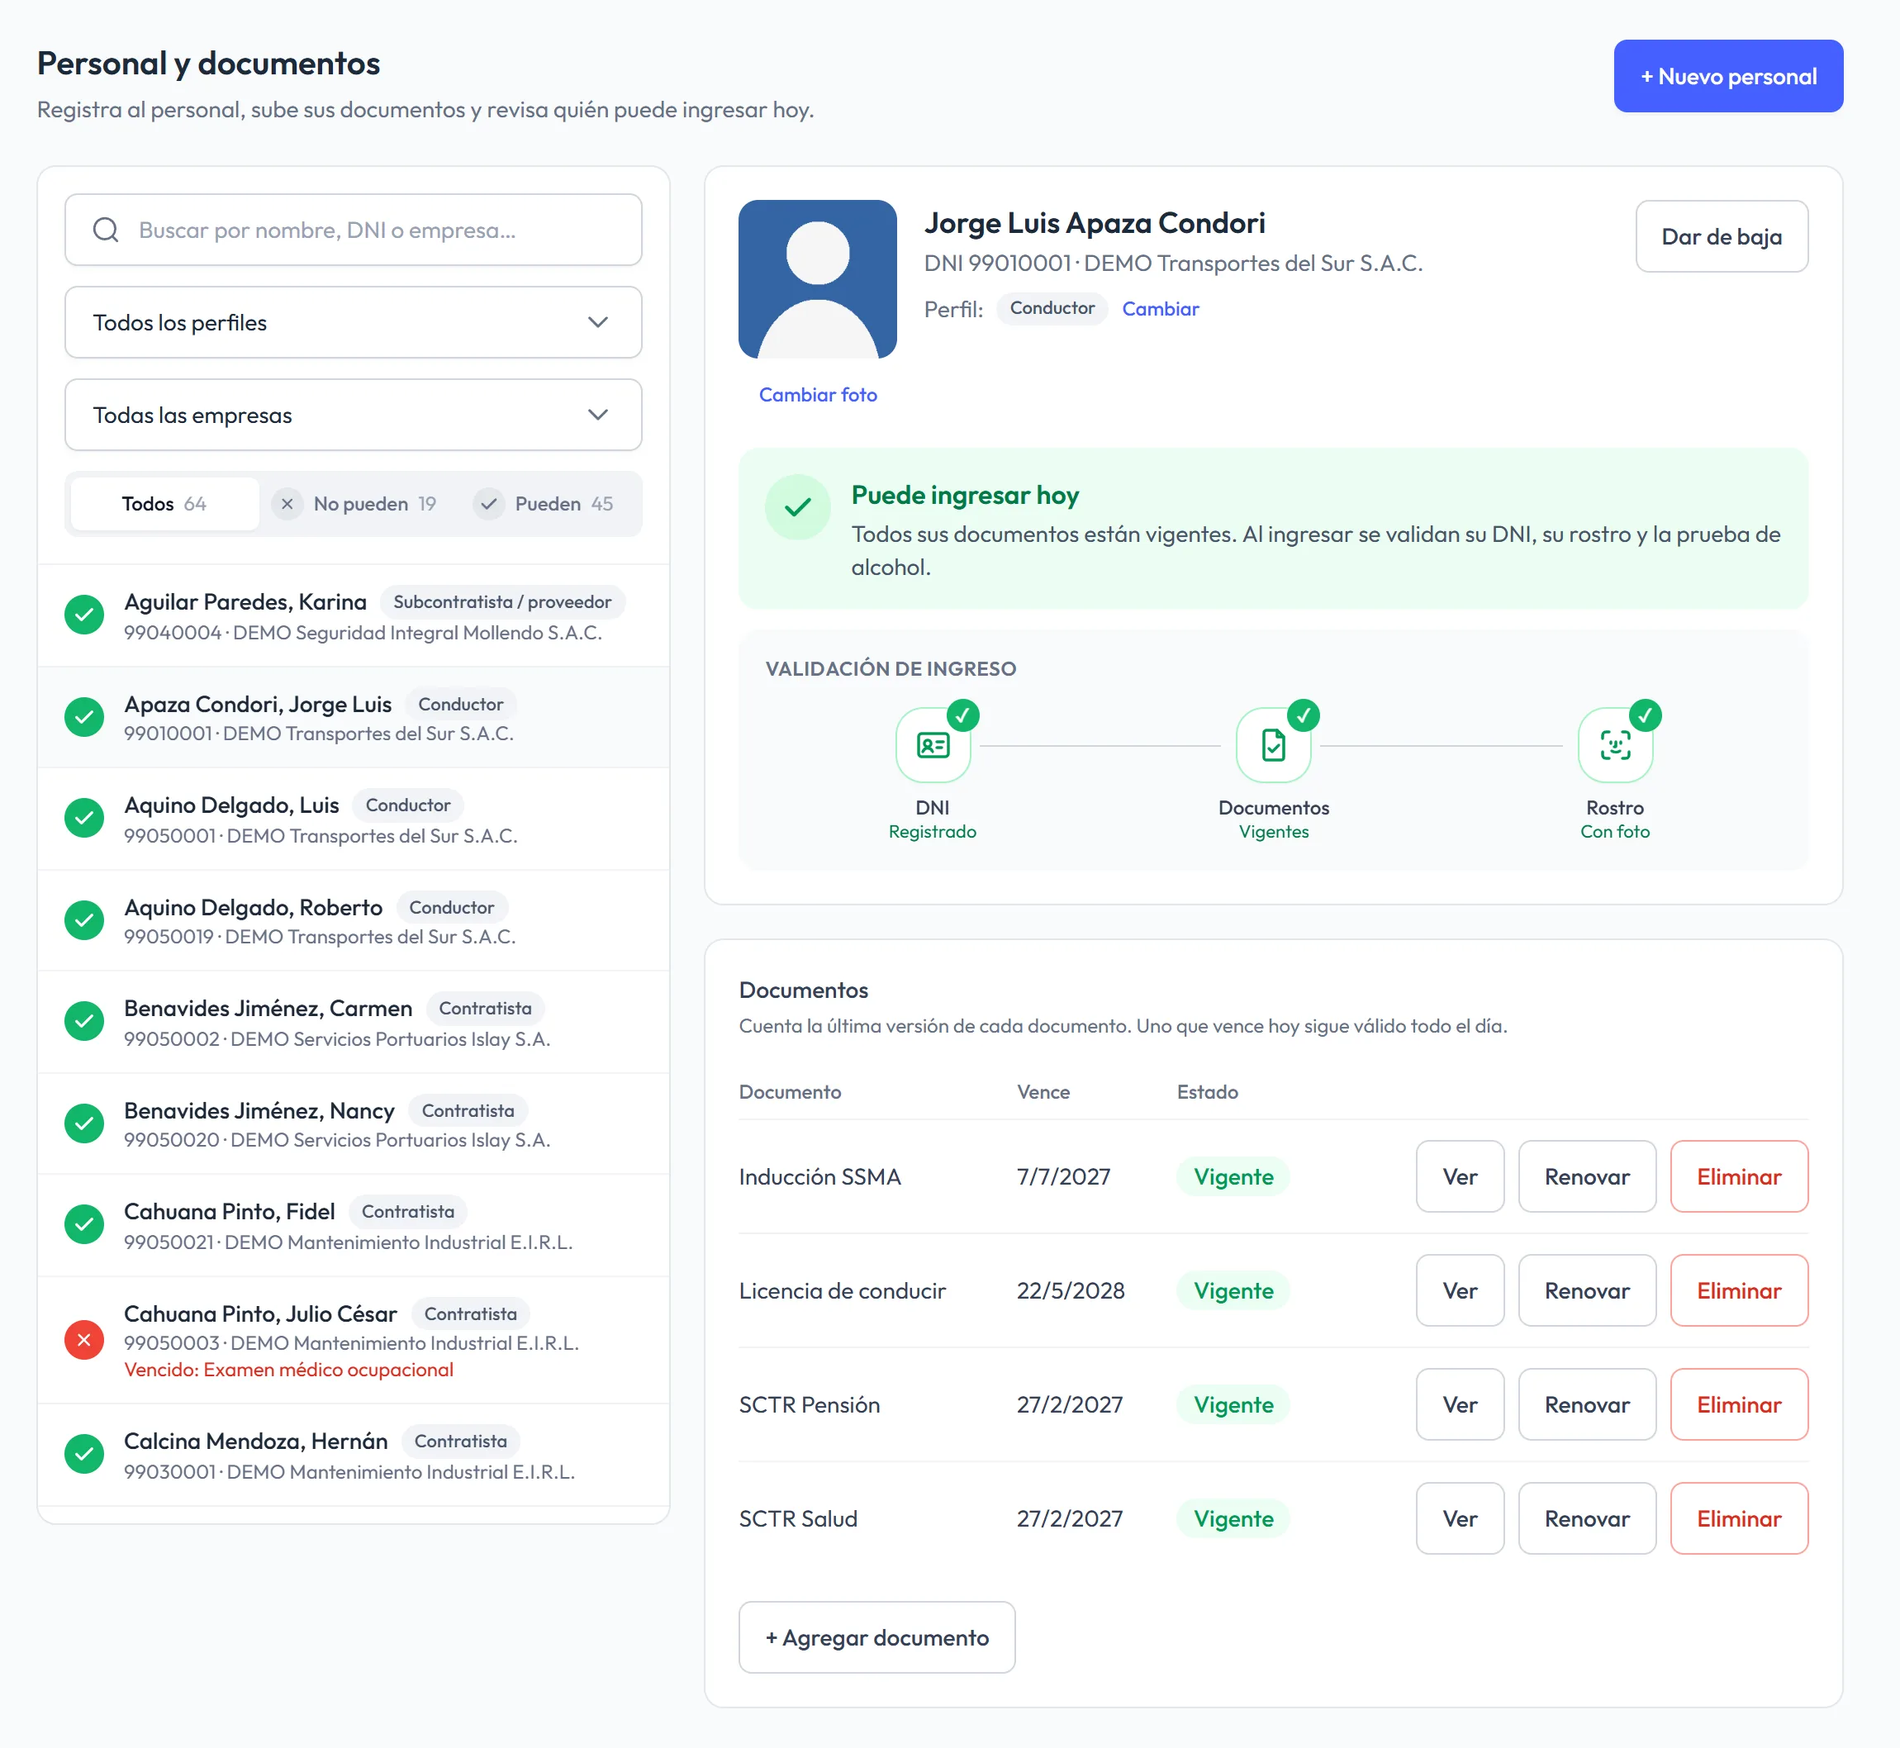
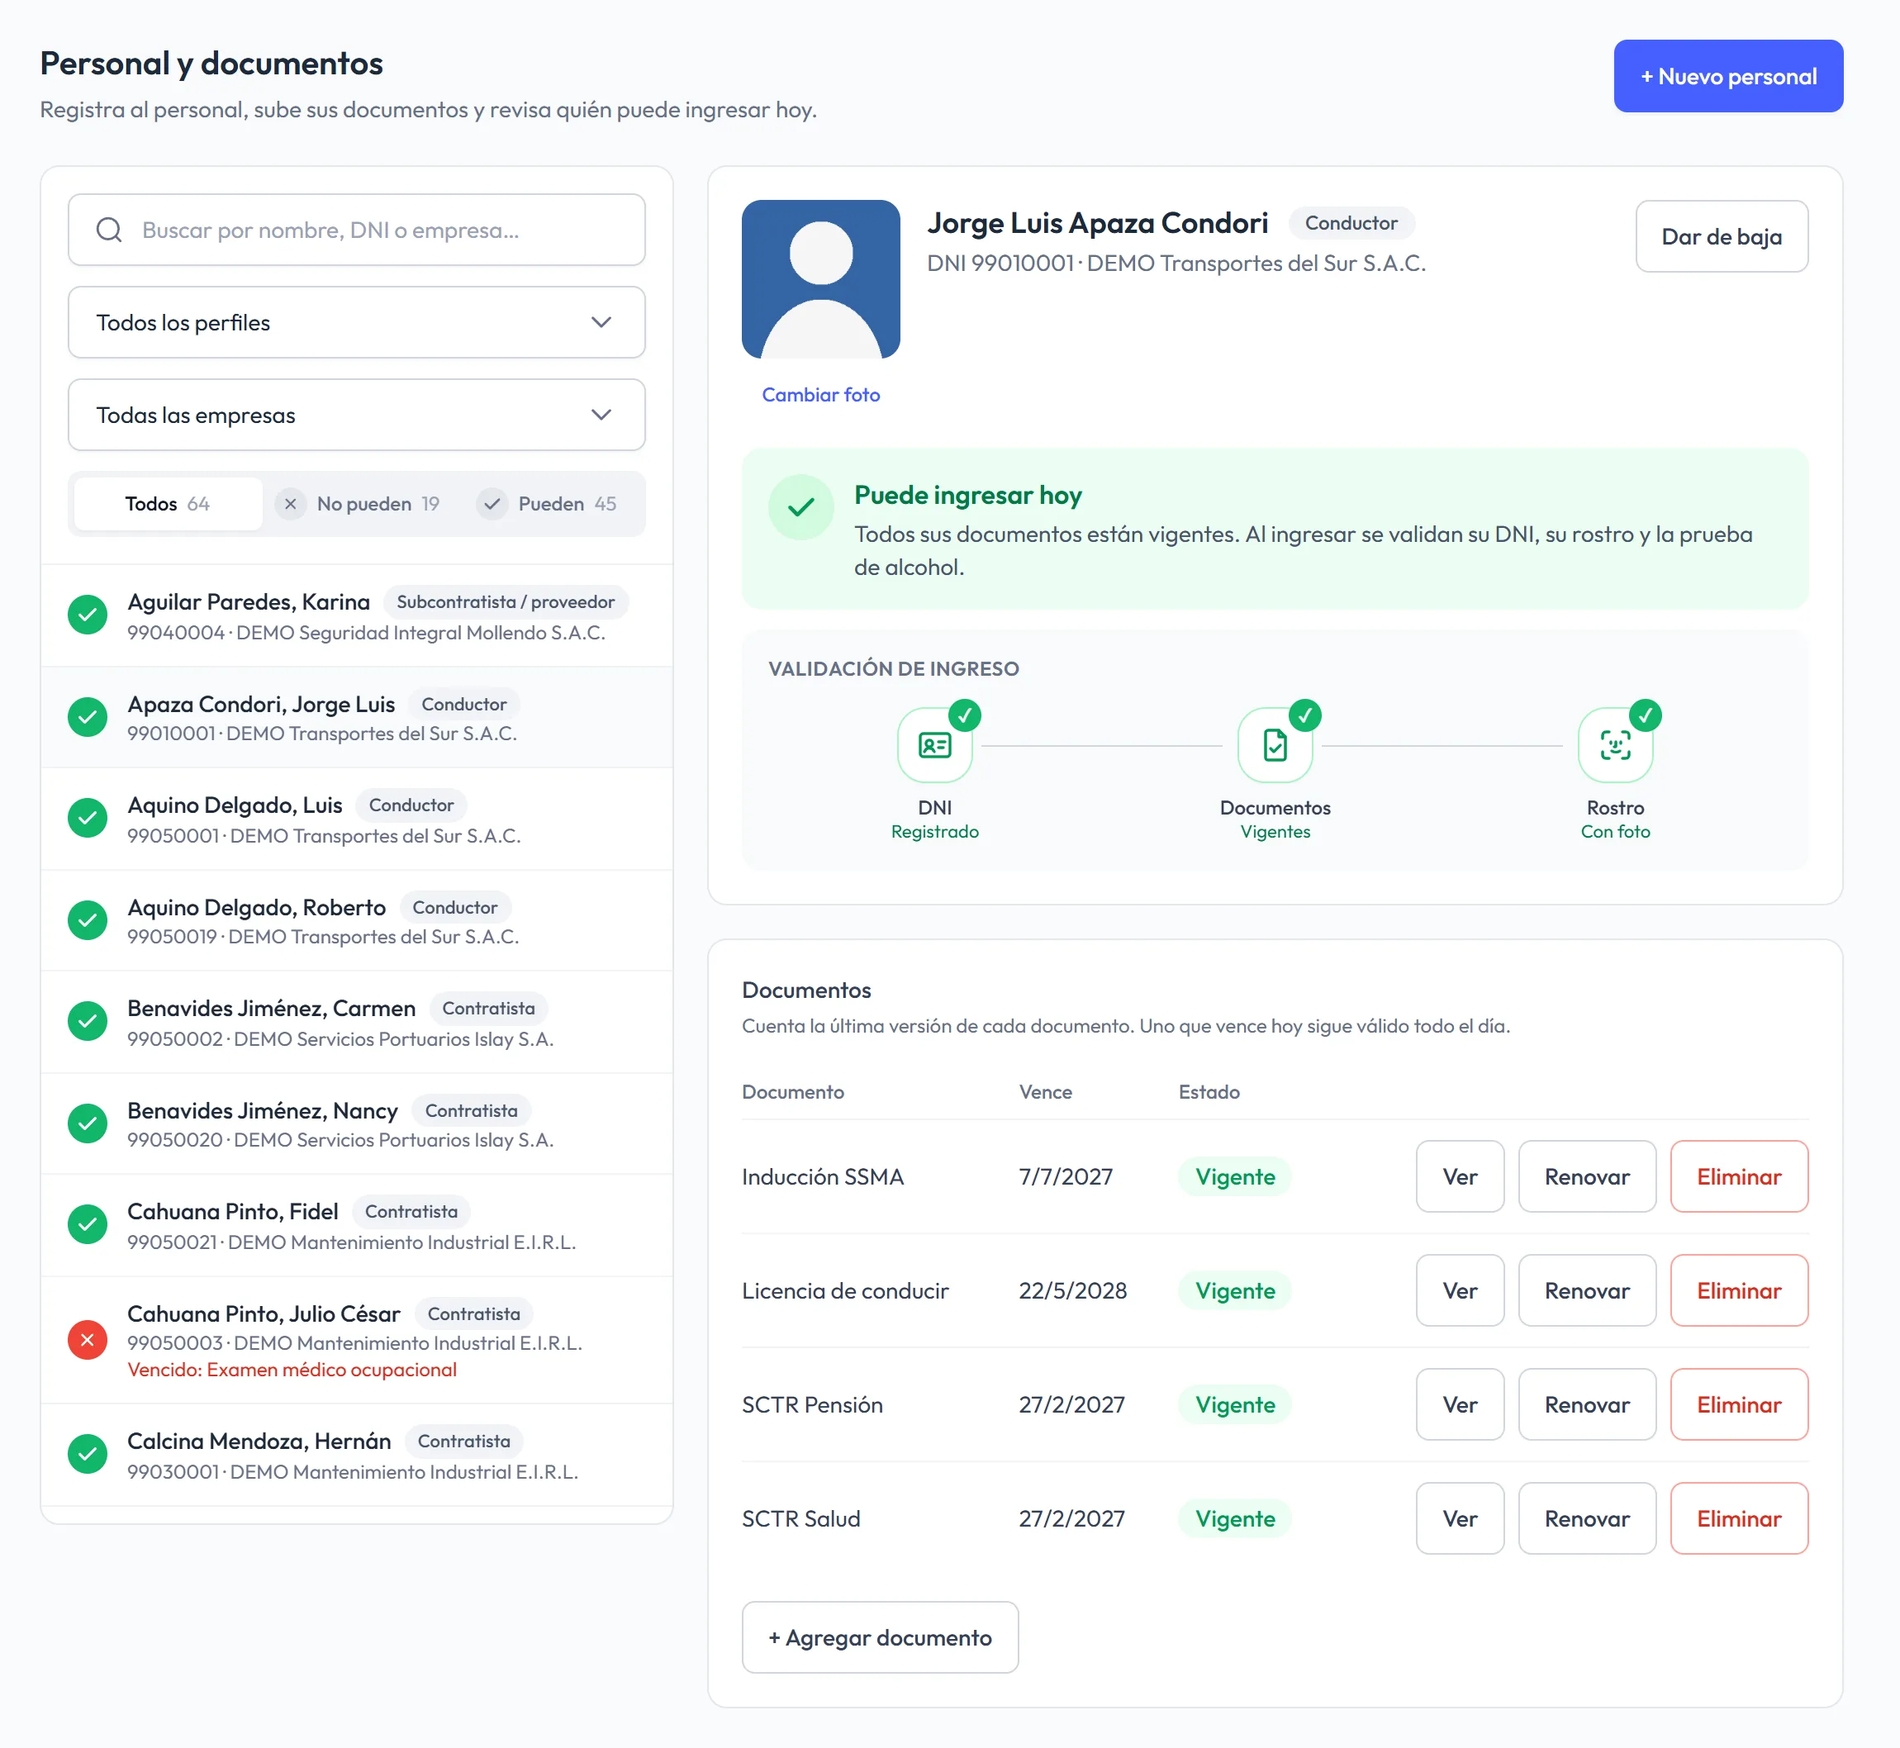
FIX 1

diff --git a/mollendo-portal/src/app/(admin)/PersonalDocumentos.tsx b/mollendo-portal/src/app/(admin)/PersonalDocumentos.tsx
@@ -14,7 +14,7 @@ import { TableSearch } from "@/components/tables/TableSearch";
 import { NuevaPersonaModal } from "@/components/personal/NuevaPersonaModal";
 import { PersonaFicha } from "@/components/personal/PersonaFicha";
 import { motivosCumplimiento } from "@/components/personal/cumplimiento";
-import { OPCIONES_PERFIL, SIN_PERFIL, textoPerfil, type Perfil } from "@/lib/perfiles";
+import { OPCIONES_PERFIL, textoPerfil, type Perfil } from "@/lib/perfiles";
 import { EtiquetaPerfil } from "@/components/personal/EtiquetaPerfil";
 import { CheckLineIcon, CloseLineIcon, GroupIcon } from "@/icons";
 
@@ -28,8 +28,8 @@ const FILTROS: Filtro[] = ["todos", "no-habilitados", "habilitados"];
  * agregan más al acercarse al final de la lista.
  */
 const FILAS_POR_TANDA = 100;
-/** Filtro de perfil de la lista: todos, uno de los perfiles o los que todavía no tienen. */
-type PerfilFiltro = "todos" | Perfil | "sin_perfil";
+/** Filtro de perfil de la lista: todos o uno de los perfiles. */
+type PerfilFiltro = "todos" | Perfil;
 
 /** Dentro de "No pueden": por documentos (sin cargar o vencidos) o dados de baja. */
 type MotivoFiltro = "todos" | "documentos" | "baja";
@@ -116,7 +116,7 @@ export function PersonalDocumentos() {
 
   const q = busqueda.trim().toLowerCase();
   const delPerfil = (p: Persona) =>
-    perfilFiltro === "todos" || (perfilFiltro === "sin_perfil" ? p.perfil === null : p.perfil === perfilFiltro);
+    perfilFiltro === "todos" || p.perfil === perfilFiltro;
   // Con un perfil elegido, el desplegable de empresas muestra solo las que tienen
   // personal de ese perfil, con cuántos.
   const personasPorEmpresa = new Map<number, number>();
@@ -209,7 +209,7 @@ export function PersonalDocumentos() {
                 setEmpresaFiltro("todas");
               }}
               aria-label="Perfil"
-              options={[{ value: "todos", label: "Todos los perfiles" }, ...OPCIONES_PERFIL, { value: "sin_perfil", label: SIN_PERFIL }]}
+              options={[{ value: "todos", label: "Todos los perfiles" }, ...OPCIONES_PERFIL]}
             />
             <Combobox
               value={empresaFiltro}
@@ -392,7 +392,7 @@ export function PersonalDocumentos() {
                       valor: visibles.length,
                       detalle:
                         perfilFiltro !== "todos"
-                          ? `Perfil: ${perfilFiltro === "sin_perfil" ? SIN_PERFIL : textoPerfil(perfilFiltro)}`
+                          ? `Perfil: ${textoPerfil(perfilFiltro)}`
                           : empresaFiltro === "todas"
                             ? "En todas las empresas"
                             : "En la empresa elegida",

diff --git a/mollendo-portal/src/components/personal/PersonaFicha.tsx b/mollendo-portal/src/components/personal/PersonaFicha.tsx
@@ -13,7 +13,7 @@ import { FotoGuardada, validarFoto } from "./FotoPersonal";
 import { EstadoIngreso } from "./EstadoIngreso";
 import { DocumentosActuales } from "./DocumentosActuales";
 import { HistorialDocumentos } from "./HistorialDocumentos";
-import { EtiquetaPerfil } from "./EtiquetaPerfil";
+import { BotonPerfil } from "./EtiquetaPerfil";
 import Select from "@/components/form/Select";
 import { OPCIONES_PERFIL, type Perfil } from "@/lib/perfiles";
 
@@ -241,25 +241,21 @@ export function PersonaFicha({
               />
             </div>
             <div>
-              <h2 className="text-lg font-semibold text-gray-800 dark:text-white/90">
-                {persona.nombres} {persona.apellidos}
-              </h2>
-              <p className="text-sm text-gray-500 dark:text-gray-400">
-                {persona.tipoDocumentoIdentidad} {persona.numeroDocumento}
-                {persona.empresa && ` · ${persona.empresa.razonSocial}`}
-              </p>
-              <p className="mt-2 flex items-center gap-2 text-sm text-gray-500 dark:text-gray-400">
-                Perfil: <EtiquetaPerfil perfil={persona.perfil} />
-                <button
-                  type="button"
+              <div className="flex flex-wrap items-center gap-x-3 gap-y-1">
+                <h2 className="text-lg font-semibold text-gray-800 dark:text-white/90">
+                  {persona.nombres} {persona.apellidos}
+                </h2>
+                <BotonPerfil
+                  perfil={persona.perfil}
                   onClick={() => {
                     setErrorPerfil(null);
                     setNuevoPerfil(persona.perfil ?? "");
                   }}
-                  className="text-xs font-medium text-brand-500 hover:text-brand-600 dark:text-brand-400"
-                >
-                  {persona.perfil ? "Cambiar" : "Asignar"}
-                </button>
+                />
+              </div>
+              <p className="text-sm text-gray-500 dark:text-gray-400">
+                {persona.tipoDocumentoIdentidad} {persona.numeroDocumento}
+                {persona.empresa && ` · ${persona.empresa.razonSocial}`}
               </p>
             </div>
           </div>

diff --git a/mollendo-portal/src/app/(admin)/reportes/page.tsx b/mollendo-portal/src/app/(admin)/reportes/page.tsx
@@ -12,7 +12,7 @@ import Button from "@/components/ui/button/Button";
 import Tarjeta from "@/components/ui/tarjeta/Tarjeta";
 import Label from "@/components/form/Label";
 import Select from "@/components/form/Select";
-import { OPCIONES_PERFIL, SIN_PERFIL } from "@/lib/perfiles";
+import { OPCIONES_PERFIL } from "@/lib/perfiles";
 import { BoxIcon, CalenderIcon, CheckLineIcon, DocsIcon, DownloadIcon, GroupIcon, ListIcon, PageIcon, TimeIcon, UserIcon } from "@/icons";
 
 interface OpcionReporte {
@@ -270,7 +270,7 @@ function ReportesContent() {
                     defaultValue={perfil}
                     onChange={setPerfil}
                     mostrarPlaceholder={false}
-                    options={[{ value: "", label: "Todos los perfiles" }, ...OPCIONES_PERFIL, { value: "sin_perfil", label: SIN_PERFIL }]}
+                    options={[{ value: "", label: "Todos los perfiles" }, ...OPCIONES_PERFIL]}
                   />
                 </Filtro>
               )}

diff --git a/mollendo-portal/src/components/personal/EtiquetaPerfil.tsx b/mollendo-portal/src/components/personal/EtiquetaPerfil.tsx
@@ -15,3 +15,21 @@ export function EtiquetaPerfil({ perfil }: { perfil: Perfil | null }) {
     </span>
   );
 }
+
+/** En la ficha: la misma etiqueta, como botón; un clic abre la ventana para cambiar el perfil. */
+export function BotonPerfil({ perfil, onClick }: { perfil: Perfil | null; onClick: () => void }) {
+  return (
+    <button
+      type="button"
+      onClick={onClick}
+      title={perfil ? "Cambiar el perfil" : "Asignar el perfil"}
+      className={`inline-flex shrink-0 items-center rounded-full px-2.5 py-0.5 text-xs font-medium transition-colors ${
+        perfil
+          ? "bg-gray-100 text-gray-600 hover:bg-gray-200 hover:text-gray-800 dark:bg-white/[0.06] dark:text-gray-300 dark:hover:bg-white/10"
+          : "bg-warning-50 text-warning-700 hover:bg-warning-100 dark:bg-warning-500/15 dark:text-orange-400"
+      }`}
+    >
+      {perfil ? textoPerfil(perfil) : "Sin perfil · Asignar"}
+    </button>
+  );
+}

diff --git a/mollendo-portal/src/app/(admin)/PersonalDocumentos.test.tsx b/mollendo-portal/src/app/(admin)/PersonalDocumentos.test.tsx
@@ -236,8 +236,10 @@ describe("Personal y documentos", () => {
     expect(opciones).toEqual(["Todas las empresas (1)", "Transportes Norte2"]);
     await userEvent.keyboard("{Escape}");
 
-    await userEvent.click(screen.getByRole("combobox", { name: "Perfil" }));
-    await userEvent.click(screen.getByRole("option", { name: "Sin perfil" }));
-    expect(enLista()).toEqual(["Ríos, Juan"]);
+    // "Sin perfil" no es una opción del filtro: solo se ve en la etiqueta, para completarlo.
+    const perfil = screen.getByRole("combobox", { name: "Perfil" });
+    await userEvent.click(perfil);
+    const opcionesPerfil = document.getElementById(perfil.getAttribute("aria-controls")!)!;
+    expect(within(opcionesPerfil).queryByRole("option", { name: "Sin perfil" })).toBeNull();
   });
 });

diff --git a/mollendo-portal/src/app/(admin)/manual/secciones.tsx b/mollendo-portal/src/app/(admin)/manual/secciones.tsx
@@ -91,8 +91,7 @@ export const SECCIONES: SeccionManual[] = [
             </>,
             "Ve la foto en grande, súbela o cámbiala: la usa el terminal facial para reconocerlo.",
             <>
-              Su <strong>perfil</strong>. Con <strong>“Cambiar”</strong> (o <strong>“Asignar”</strong>, si todavía no
-              tiene) se corrige.
+              Su <strong>perfil</strong>, junto al nombre: un clic en la etiqueta lo cambia o, si todavía no tiene, lo asigna.
             </>,
             "Si hoy puede ingresar y, si no, por qué.",
             <>

diff --git a/PROGRESO.md b/PROGRESO.md
@@ -601,3 +601,5 @@ Resumen del estado actual. El detalle de cada cambio está en la bitácora (abaj
 - **2026-10-16** — **Opción B: "visitas" pasa a "ingresos"** (pedido del cliente: desde que existe el perfil "Visita", "visita" queda solo para las personas de afuera). Solo textos, sin cambiar cálculos ni nombres internos (los campos `visitas` de la API y el tipo de reporte `visitas` se mantienen). Dashboard: "Ingresos finalizados", "Total de ingresos", "Comparativa de ingresos", "presentes frente a finalizados" y el total de horas-hombre "de N ingresos con su salida". Reportes: "Visitas del periodo" → **"Ingresos del periodo"** (archivo `reporte-ingresos-…`, estado "Finalizado"/"Presente", totales "Total de ingresos"/"Finalizados"); Horas-hombre con columna "Ingresos". Manual (capturas dashboard y reportes), documento funcional y glosario ("Visita" = perfil) al día. Pruebas: API 130/130, portal 106/106. Subido a AWS el 16/10 (14:31).
 - **2026-10-16** — IP del G4 sin esperar a que se registre: la API le pide **INFO** (`pedirInfoUnaVez`, en su primer `getrequest` desde que arranca) y guarda el `IPAddress=` de la respuesta en `/iclock/devicecmd` (`guardarIpLocal`). Probado a mano en AWS (comando 108): el G4 lo acepta (Return=0) y responde IPAddress=172.20.20.198, UserCount=2. Revisión de la opción B contra la API local: "Ingresos del periodo" (archivo `reporte-ingresos-…`, estado "Finalizado", 1 041 ingresos / 1 007 finalizados = Dashboard) y Horas-hombre con "Ingresos" (1 007, igual que los finalizados). Pruebas: API 131/131, portal 106/106. Subido a AWS el 16/10 (14:31; respaldo `antes-de-actualizar-20261016-1930.sql.gz`): al arrancar le pidió INFO al G4 y guardó `ip_local` 172.20.20.198.
 - **2026-10-16** — AWS: corrido `prisma/perfiles-demo.ts` (1 056 personas DEMO con perfil: 512 contratistas, 316 subcontratistas, 176 conductores, 52 visitas; quedan "Sin perfil" las 3 reales o de prueba: 99090001, 48058719 y 46790932). Por pedido del cliente se quitó la permanencia mayor a 12 h: las 4 personas DEMO que seguían "dentro" desde el 02/10 y el 07/10 (99020006, 99040004, 99700390, 99700989) recibieron una salida DEMO 8 a 10 h después de su ingreso (molinete "DEMO", se borra con `limpiar-demo.sh`). Además se registró la salida DEMO de los 384 presentes DEMO de hoy (entre su ingreso y la hora actual: 8 a 10 h después o antes de ahora), para que no pasen las 12 h. Amiel Bautista (48058719, el único usuario de prueba con foto, instala los molinetes) quedó con perfil Contratista.
+- **2026-10-16** — AWS: "santiago prueba" (46790932), el único que seguía dentro (desde las 07:03), recibió una salida (molinete "DEMO") y quedó **dado de baja** ("Usuario de prueba, ya no se usa"). Los cambios de perfil y baja hechos directo en la base no figuran en la Auditoría.
+- **2026-10-16** — Ficha: el perfil va **junto al nombre**, con la misma etiqueta de la lista como botón (`BotonPerfil`, sin ícono): un clic abre la ventana para cambiarlo ("Sin perfil · Asignar" en ámbar si no tiene). Se quitó la opción "Sin perfil" de los filtros de la lista y de Reportes (pedido del cliente). Captura `personal` del manual y documento funcional al día. Pruebas: portal 106/106. Falta subir a AWS.

diff --git a/docs/cliente/Documento_Funcional_Control_Accesos_TMAM.md b/docs/cliente/Documento_Funcional_Control_Accesos_TMAM.md
@@ -198,7 +198,7 @@ Pantalla principal del administrador. Muestra a la izquierda la lista del person
 **Lista del personal**
 
 - Cada persona muestra un **✔** si está habilitada para ingresar en la fecha o un **✖** con el motivo (dado de baja, sin documentos, documento vencido).
-- Cada persona muestra su **perfil**; las registradas antes de que existiera el perfil figuran como "Sin perfil" (en ámbar), para completarlo desde su ficha.
+- Cada persona muestra su **perfil**; las registradas antes de que existiera el perfil figuran como "Sin perfil" (en ámbar), para completarlo desde su ficha. "Sin perfil" no es una opción de los filtros.
 - Búsqueda por nombre, número de documento o empresa; filtro por **perfil** y por empresa (con un perfil elegido, el filtro de empresas muestra solo las que tienen personal de ese perfil, con cuántos); pestañas "Todos", "No pueden" y "Pueden", con la cantidad de cada una. Dentro de "No pueden" se puede separar "Documentos" (personal activo con documentos sin cargar o vencidos; podrá ingresar al regularizarlos) de "De baja".
 
 **Registrar personal ("+ Nuevo personal")**
@@ -215,7 +215,7 @@ Si ocurre un error durante el registro (por ejemplo, un archivo no válido), la 
 
 **Ficha de la persona**
 
-- Datos, empresa y foto ("Cambiar foto"). **Perfil**, con "Cambiar" (o "Asignar" si todavía no tiene); el cambio queda en la auditoría. Si no tiene foto, se advierte que no podrá identificarse en el terminal.
+- Datos, empresa y foto ("Cambiar foto"). **Perfil** junto al nombre: un clic en la etiqueta lo cambia, o lo asigna si todavía no tiene; el cambio queda en la auditoría. Si no tiene foto, se advierte que no podrá identificarse en el terminal.
 - Recuadro de estado: "Puede ingresar hoy (sujeto a la prueba de alcohol en garita)" o "No puede ingresar" con los motivos.
 - **Documentos actuales:** nombre, vencimiento y estado (Vigente / Vencido), con las acciones:
   - **Ver:** abre el archivo cargado en una pestaña nueva (PDF o imagen); si es Word, lo descarga.
